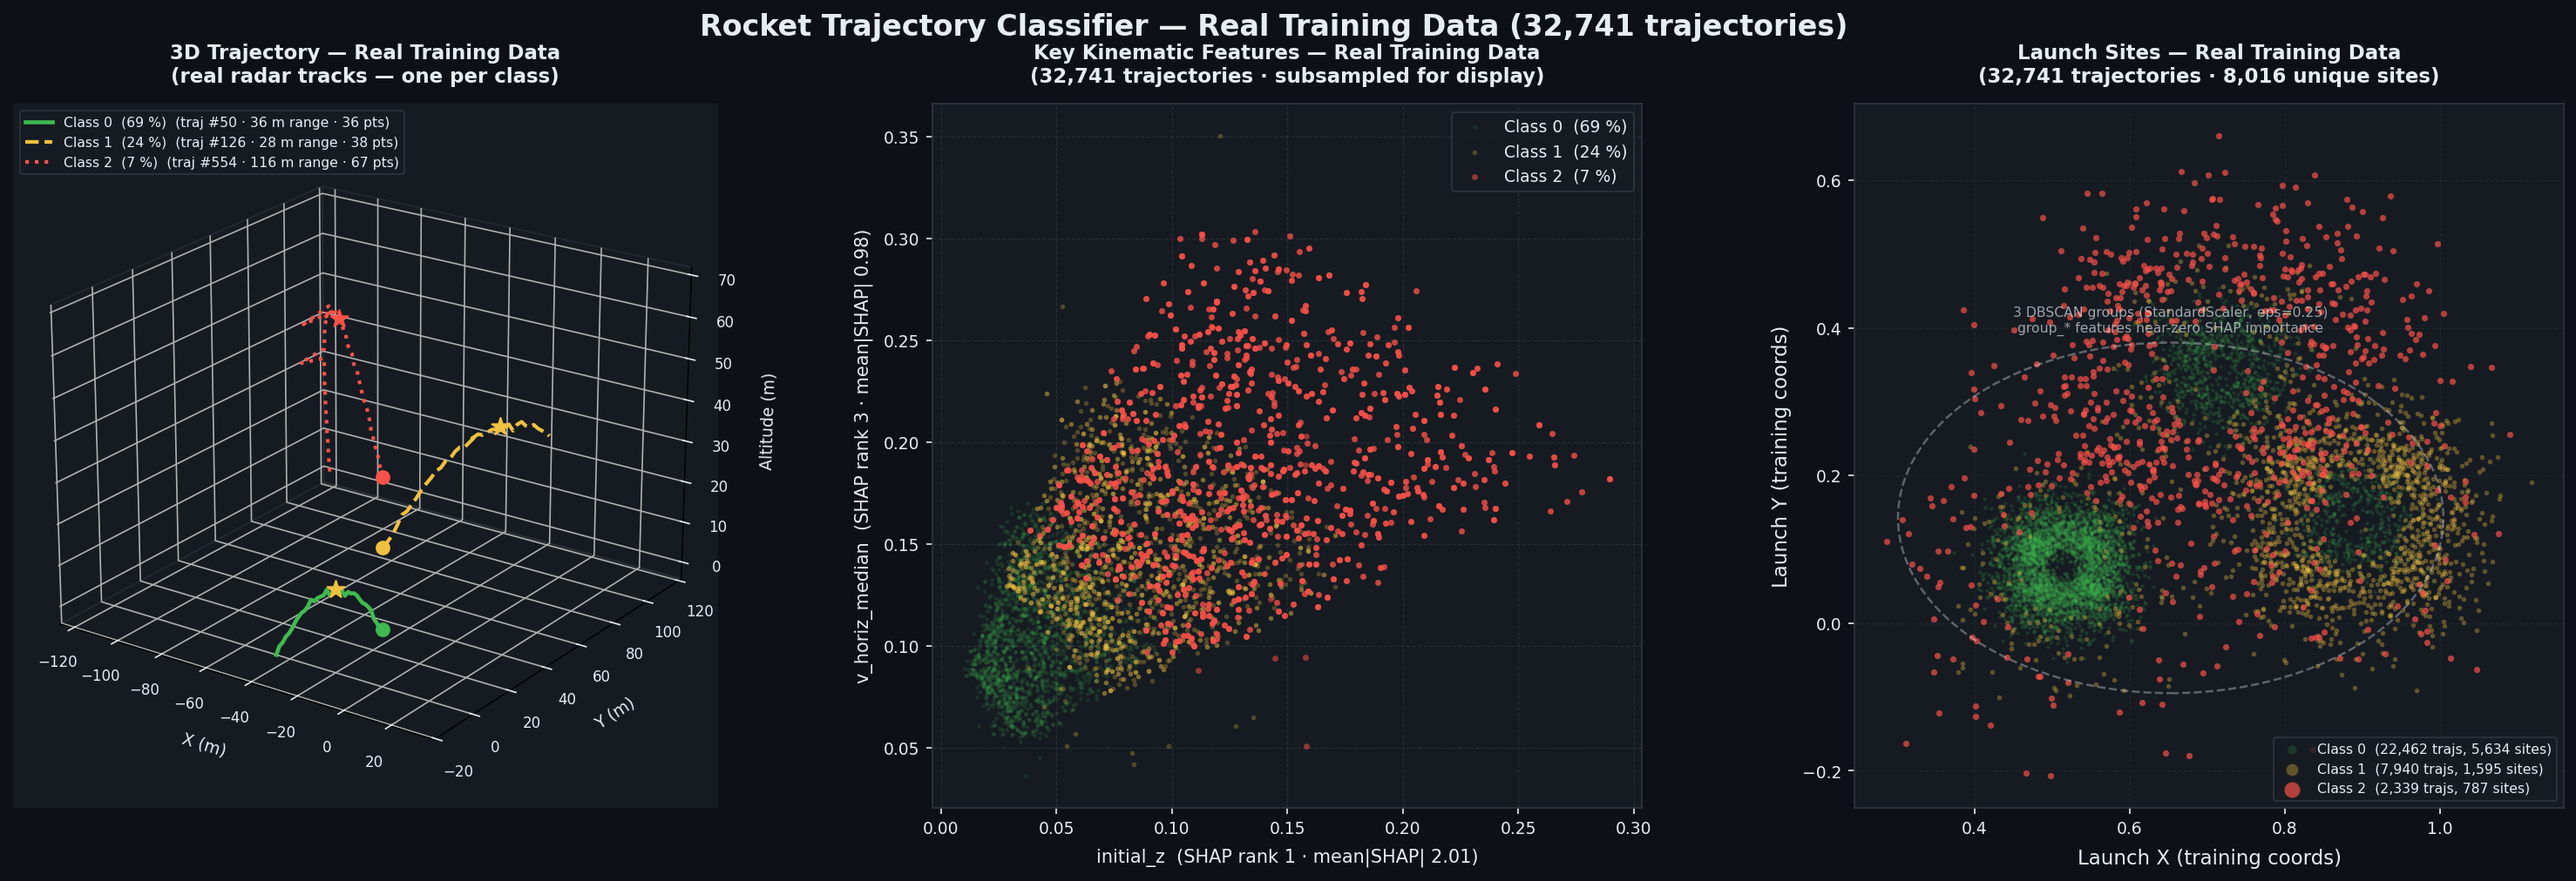
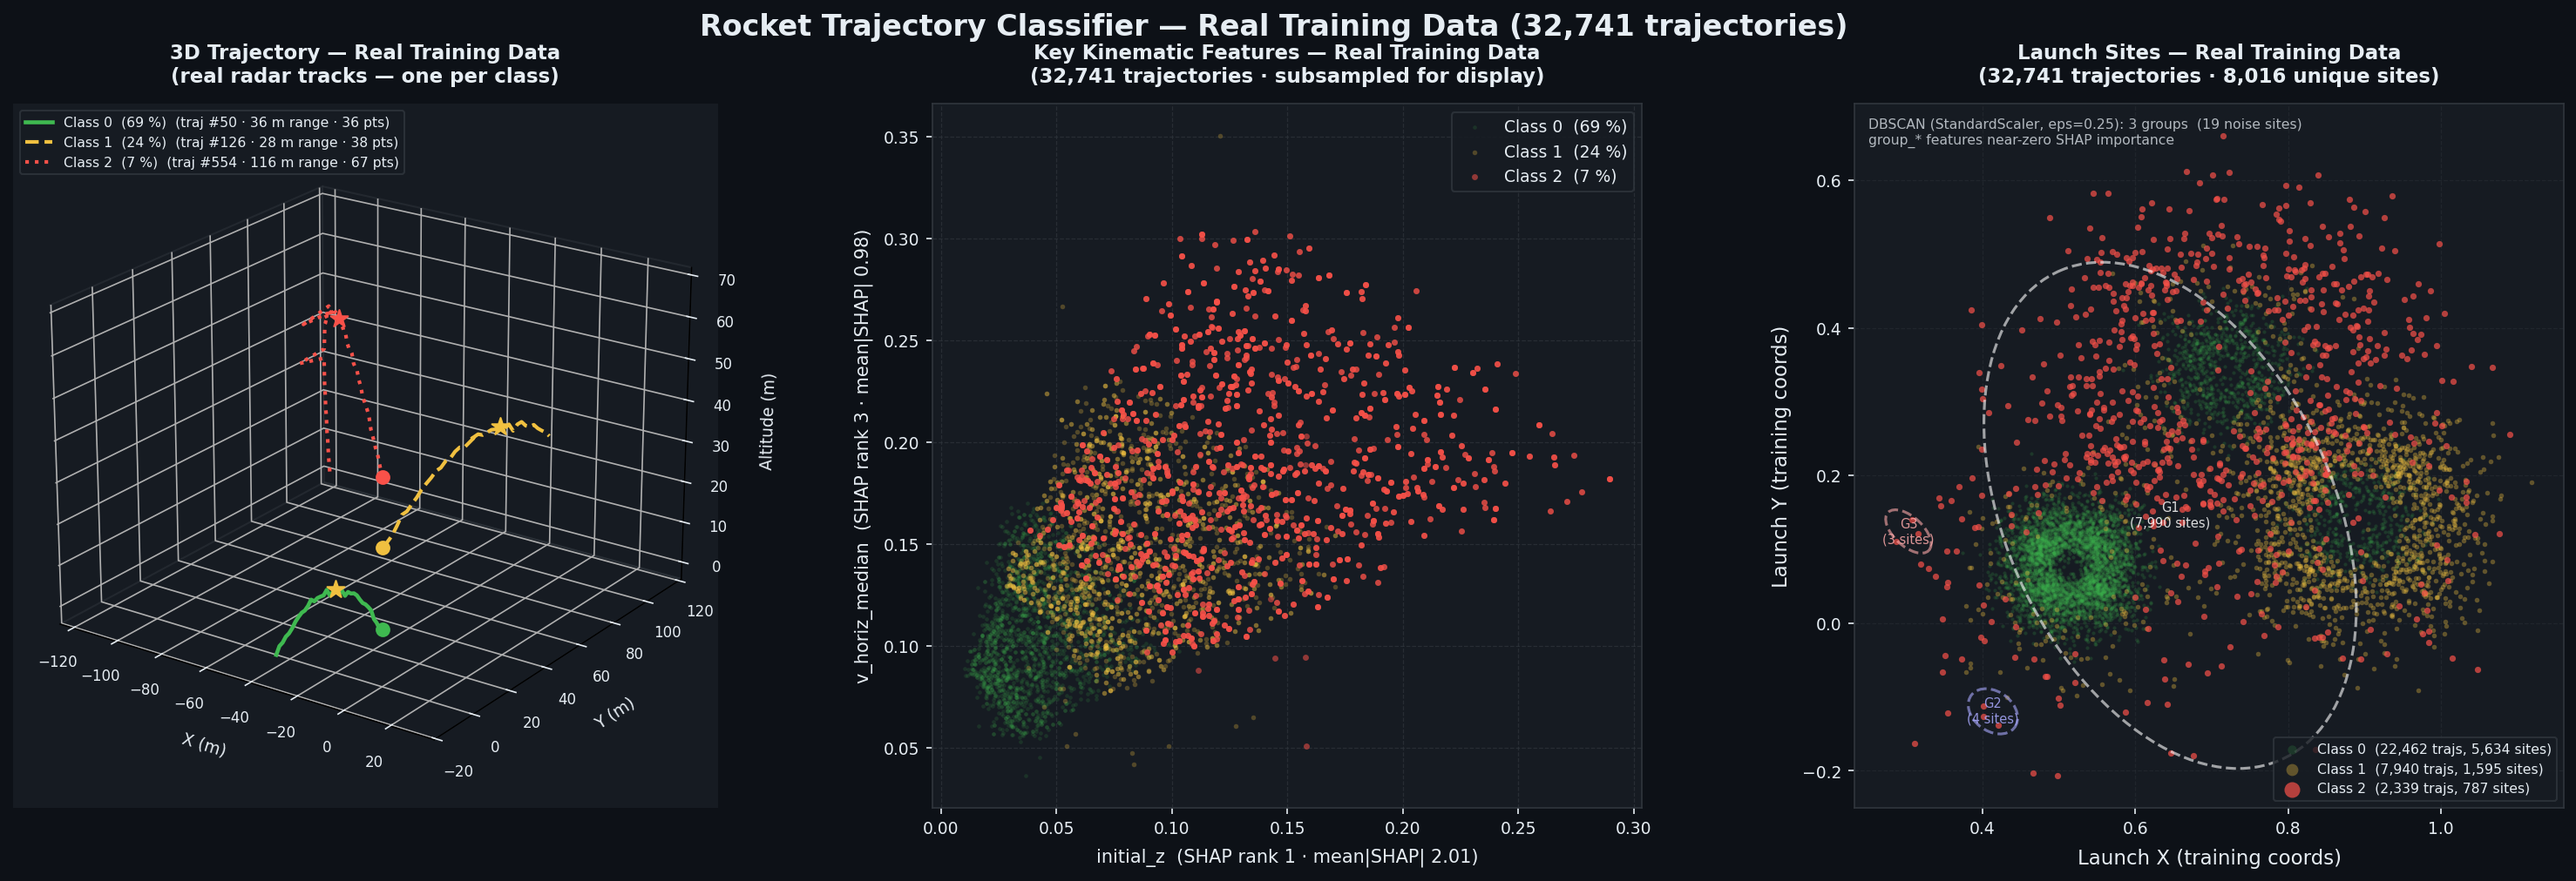
viz: draw per-DBSCAN-group ellipses on right panel of demo.png
Instead of a single all-data ellipse with a text label, the right panel
now runs the exact same DBSCAN as production (StandardScaler, eps=0.25)
on unique launch sites and draws one 2-sigma dashed ellipse per group,
labelled with group ID and site count.  Makes the 3-group finding
directly visible rather than stated only in annotation text.

diff --git a/research/visualize.py b/research/visualize.py
@@ -329,6 +329,9 @@ def make_demo_plot(output_path: Path) -> None:
     ax_s.grid(True, color=GRID_COLOR, linewidth=0.6, linestyle="--", alpha=0.4)
 
     if launch_df is not None:
+        from sklearn.cluster import DBSCAN
+        from sklearn.preprocessing import StandardScaler
+
         n_total = len(launch_df)
         # Per-class trajectory counts and unique launch sites
         class_counts = launch_df["label"].value_counts().sort_index().to_dict()
@@ -354,32 +357,63 @@ def make_demo_plot(output_path: Path) -> None:
                 label=f"Class {cls}  ({n_traj:,} trajs, {len(sub):,} sites)",
             )
 
-        # 2-sigma ellipse enclosing the dominant DBSCAN group (all points)
-        all_x = launch_df["launch_x"].values
-        all_y = launch_df["launch_y"].values
-        cx, cy = all_x.mean(), all_y.mean()
-        sx, sy = all_x.std() * 2, all_y.std() * 2
-        ellipse = mpatches.Ellipse(
-            (cx, cy),
-            width=sx * 2,
-            height=sy * 2,
-            fill=False,
-            edgecolor=TEXT_COLOR,
-            linewidth=1.2,
-            linestyle="--",
-            alpha=0.35,
-            zorder=3,
-        )
-        ax_s.add_patch(ellipse)
+        # Run DBSCAN on StandardScaler-normalised unique sites — exactly as
+        # production features.py does — and draw one 2-sigma ellipse per group.
+        unique_sites = launch_df[["launch_x", "launch_y"]].drop_duplicates().values
+        scaled = StandardScaler().fit_transform(unique_sites)
+        db_labels = DBSCAN(eps=0.25, min_samples=3).fit_predict(scaled)
+        group_ids = sorted(g for g in np.unique(db_labels) if g != -1)
+        ellipse_colors = ["#ffffff", "#aaaaff", "#ffaaaa", "#aaffaa", "#ffdd88"]
+        for i, gid in enumerate(group_ids):
+            mask = db_labels == gid
+            pts = unique_sites[mask]
+            if len(pts) < 3:
+                continue
+            mu = pts.mean(axis=0)
+            cov = np.cov(pts[:, 0], pts[:, 1])
+            eig_vals, eig_vecs = np.linalg.eigh(cov)
+            angle = np.degrees(np.arctan2(eig_vecs[1, -1], eig_vecs[0, -1]))
+            w, h = 2 * 2 * np.sqrt(np.abs(eig_vals))
+            ec = ellipse_colors[i % len(ellipse_colors)]
+            ellipse = mpatches.Ellipse(
+                mu,
+                width=w,
+                height=h,
+                angle=angle,
+                fill=False,
+                edgecolor=ec,
+                linewidth=1.5,
+                linestyle="--",
+                alpha=0.6,
+                zorder=3,
+            )
+            ax_s.add_patch(ellipse)
+            ax_s.text(
+                mu[0],
+                mu[1],
+                f"G{i + 1}\n({mask.sum():,} sites)",
+                color=ec,
+                fontsize=7,
+                ha="center",
+                va="center",
+                alpha=0.85,
+                zorder=4,
+            )
+
+        n_groups = len(group_ids)
+        n_noise = int((db_labels == -1).sum())
         ax_s.text(
-            cx,
-            cy + sy + 0.01,
-            "3 DBSCAN groups (StandardScaler, eps=0.25)\ngroup_* features near-zero SHAP importance",
+            0.02,
+            0.98,
+            f"DBSCAN (StandardScaler, eps=0.25): {n_groups} groups  ({n_noise} noise sites)\n"
+            "group_* features near-zero SHAP importance",
+            transform=ax_s.transAxes,
             color=TEXT_COLOR,
             fontsize=7.5,
-            ha="center",
-            va="bottom",
-            alpha=0.65,
+            ha="left",
+            va="top",
+            alpha=0.75,
+            zorder=4,
         )
 
         ax_s.legend(
